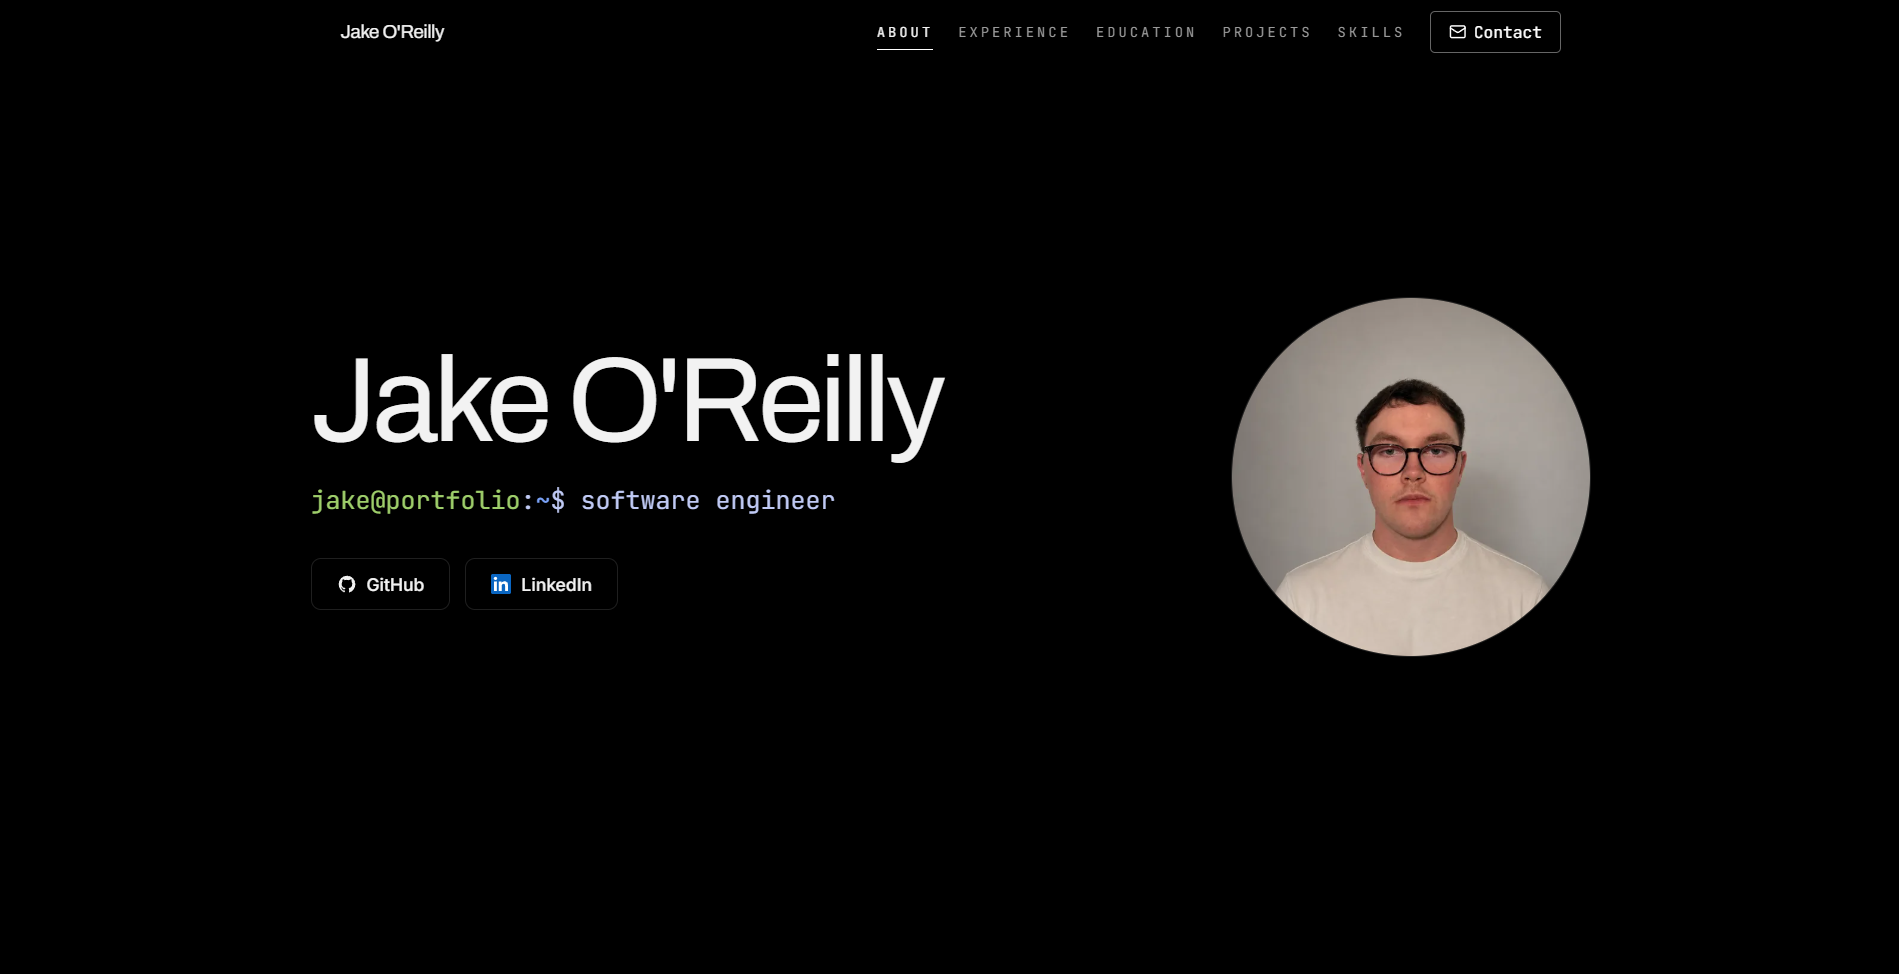
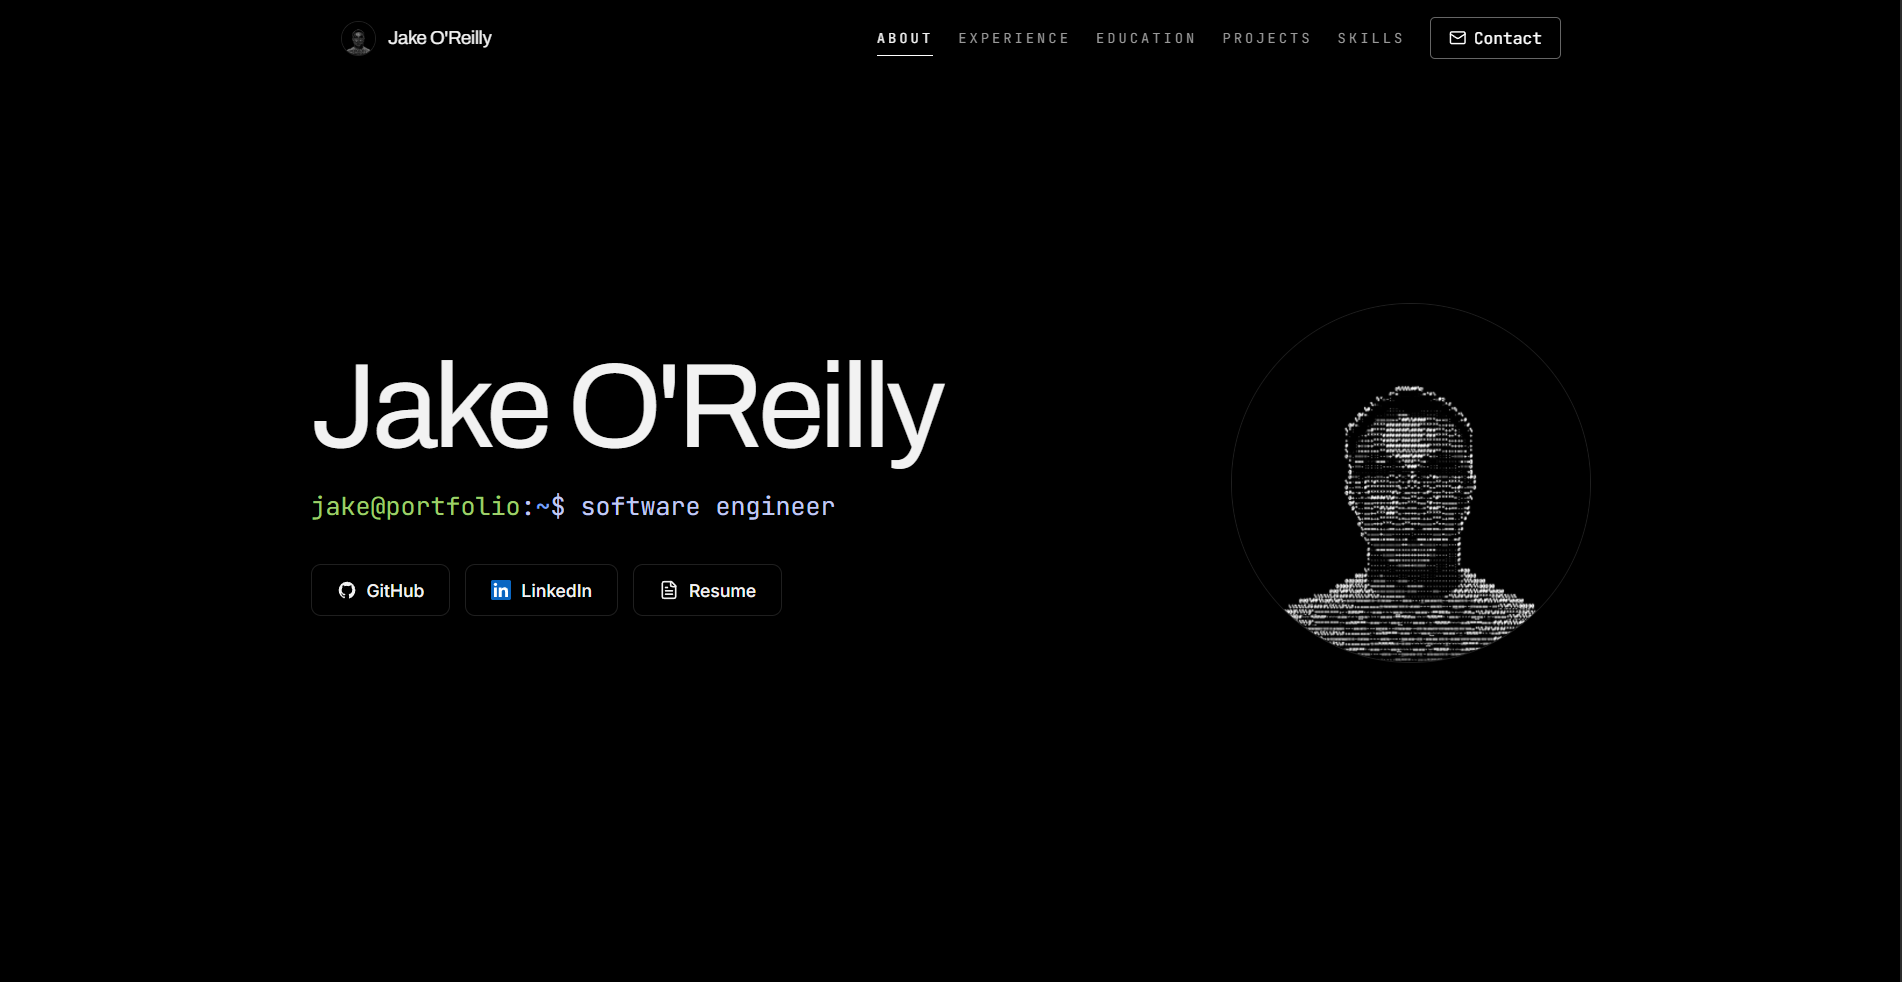
code cleanup

diff --git a/src/components/Certifications.tsx b/src/components/Certifications.tsx
@@ -8,7 +8,6 @@ type Cert = {
   issuer: string;
   date: string;
   meta: string;
-  tag: string;
   image: string;
   imageSize: [width: number, height: number];
   credentialUrl: string;
@@ -20,7 +19,6 @@ const certs: Cert[] = [
     issuer: "DataCamp",
     date: "Mar 2026",
     meta: "9hrs",
-    tag: "Version control",
     image: "/certs/github-foundations.webp",
     imageSize: [760, 439],
     credentialUrl: "https://drive.google.com/file/d/1_t_71bJ6y3-lkrjQJGOO5C_q6-3_kQwt/view",
@@ -30,7 +28,6 @@ const certs: Cert[] = [
     issuer: "NVIDIA",
     date: "Dec 2024",
     meta: "Certificate of Competency",
-    tag: "Machine learning",
     image: "/certs/nvidia-deep-learning.webp",
     imageSize: [760, 649],
     credentialUrl: "https://learn.nvidia.com/certificates?id=01odK5ZsSkOEBhyeCFTXzA",
@@ -40,7 +37,6 @@ const certs: Cert[] = [
     issuer: "DeepLearning.AI · OpenAI",
     date: "Sep 2025",
     meta: "Short course · 1h 30m",
-    tag: "AI / LLMs",
     image: "/certs/prompt-engineering.webp",
     imageSize: [760, 504],
     credentialUrl:
@@ -51,7 +47,6 @@ const certs: Cert[] = [
     issuer: "Udemy",
     date: "Apr 2025",
     meta: "9hrs",
-    tag: "Databases",
     image: "/certs/sql-bootcamp.webp",
     imageSize: [1600, 1190],
     credentialUrl:
@@ -62,7 +57,6 @@ const certs: Cert[] = [
     issuer: "Cohere Labs",
     date: "Aug 2026",
     meta: "Participant",
-    tag: "Machine learning",
     image: "/certs/cohere-machine-learning.webp",
     imageSize: [600, 424],
     credentialUrl:

diff --git a/src/App.tsx b/src/App.tsx
@@ -12,10 +12,10 @@ function setMetaContent(selector: string, content: string) {
   document.querySelector<HTMLMetaElement>(selector)?.setAttribute("content", content);
 }
 
-// Start each page at the top when switching routes, or jump to the
-// hashed section if the destination URL carries one (e.g. /#projects).
-function ScrollReset() {
-  const { pathname, hash } = useLocation();
+// Keep the title, description, Open Graph and canonical tags in step with the
+// current route (the prerender pass bakes the same set into each static page).
+function RouteMeta() {
+  const { pathname } = useLocation();
 
   useEffect(() => {
     const meta = metaForPath(pathname);
@@ -29,6 +29,14 @@ function ScrollReset() {
     const canonical = document.querySelector<HTMLLinkElement>('link[rel="canonical"]');
     if (canonical) canonical.href = url;
   }, [pathname]);
+
+  return null;
+}
+
+// Start each page at the top when switching routes, or jump to the
+// hashed section if the destination URL carries one (e.g. /#projects).
+function ScrollReset() {
+  const { pathname, hash } = useLocation();
 
   useEffect(() => {
     const target = hash ? document.getElementById(hash.slice(1)) : null;
@@ -56,6 +64,7 @@ export function AppRoutes() {
 
   return (
     <>
+      <RouteMeta />
       <ScrollReset />
       <Nav />
       <main>

diff --git a/src/lib/routeMeta.ts b/src/lib/routeMeta.ts
@@ -24,10 +24,10 @@ export const ROUTE_META: Record<string, RouteMeta> = {
   "/contact": {
     title: "Contact | Jake O'Reilly, Software Engineer in Dublin",
     description:
-      "Get in touch with Jake O'Reilly, a software engineer based in Dublin, Ireland, by message, email, LinkedIn, or GitHub.",
+      "Get in touch with Jake O'Reilly, a software engineer based in Dublin, Ireland, by message, email, LinkedIn, GitHub, or X.",
     ogTitle: "Contact Jake O'Reilly",
     ogDescription:
-      "Get in touch with Jake O'Reilly, a software engineer based in Dublin, Ireland, by message, email, LinkedIn, or GitHub.",
+      "Get in touch with Jake O'Reilly, a software engineer based in Dublin, Ireland, by message, email, LinkedIn, GitHub, or X.",
   },
 };
 

diff --git a/index.html b/index.html
@@ -24,8 +24,8 @@
       content="Computer science student and software engineer in Dublin. Projects, experience, and how to get in touch."
     />
     <meta property="og:image" content="https://www.jakeoreilly.dev/social-preview.png" />
-    <meta property="og:image:width" content="1200" />
-    <meta property="og:image:height" content="630" />
+    <meta property="og:image:width" content="1902" />
+    <meta property="og:image:height" content="982" />
     <meta
       property="og:image:alt"
       content="The jakeoreilly.dev homepage: a dark terminal-styled hero reading 'Jake O'Reilly, software engineer'"

diff --git a/src/components/icons.tsx b/src/components/icons.tsx
@@ -50,15 +50,6 @@ export function MailIcon(props: IconProps) {
   );
 }
 
-export function PinIcon(props: IconProps) {
-  return (
-    <Outline {...props}>
-      <path d="M20 10c0 6-8 12-8 12s-8-6-8-12a8 8 0 0 1 16 0Z" />
-      <circle cx="12" cy="10" r="3" />
-    </Outline>
-  );
-}
-
 export function FileTextIcon(props: IconProps) {
   return (
     <Outline {...props}>

diff --git a/src/components/WindowBar.tsx b/src/components/WindowBar.tsx
@@ -9,8 +9,7 @@ export function WindowBar({ filename }: { filename: string }) {
       <div className="flex items-center gap-2 px-4 py-2.5">
         <img
           src="/favicon.png"
-          alt="Jake O'Reilly favicon"
-          aria-hidden
+          alt=""
           width={18}
           height={18}
           className="h-[18px] w-[18px] object-contain"

diff --git a/README.md b/README.md
@@ -1,6 +1,6 @@
 # Jake O'Reilly Portfolio
 
-<img src=".github/social-preview.png" alt="The jakeoreilly.dev homepage: a dark terminal-styled hero reading 'Jake O'Reilly, software engineer'" width="100%" />
+<img src="public/social-preview.png" alt="The jakeoreilly.dev homepage: a dark terminal-styled hero reading 'Jake O'Reilly, software engineer'" width="100%" />
 
 My personal portfolio site: projects, experience, and a contact form.
 
@@ -48,10 +48,11 @@ The site runs fine without these; they're only needed for the contact form to ac
 | Command | Description |
 | --- | --- |
 | `npm run dev` | Start the dev server |
-| `npm run build` | Type-check and build for production |
+| `npm run build` | Type-check, build, and prerender the pages to static HTML |
 | `npm run preview` | Preview the production build |
 | `npm run lint` | Run ESLint |
 | `npm run format` | Format with Prettier |
+| `npm run format:check` | Check formatting without changing files |
 
 ## License
 
